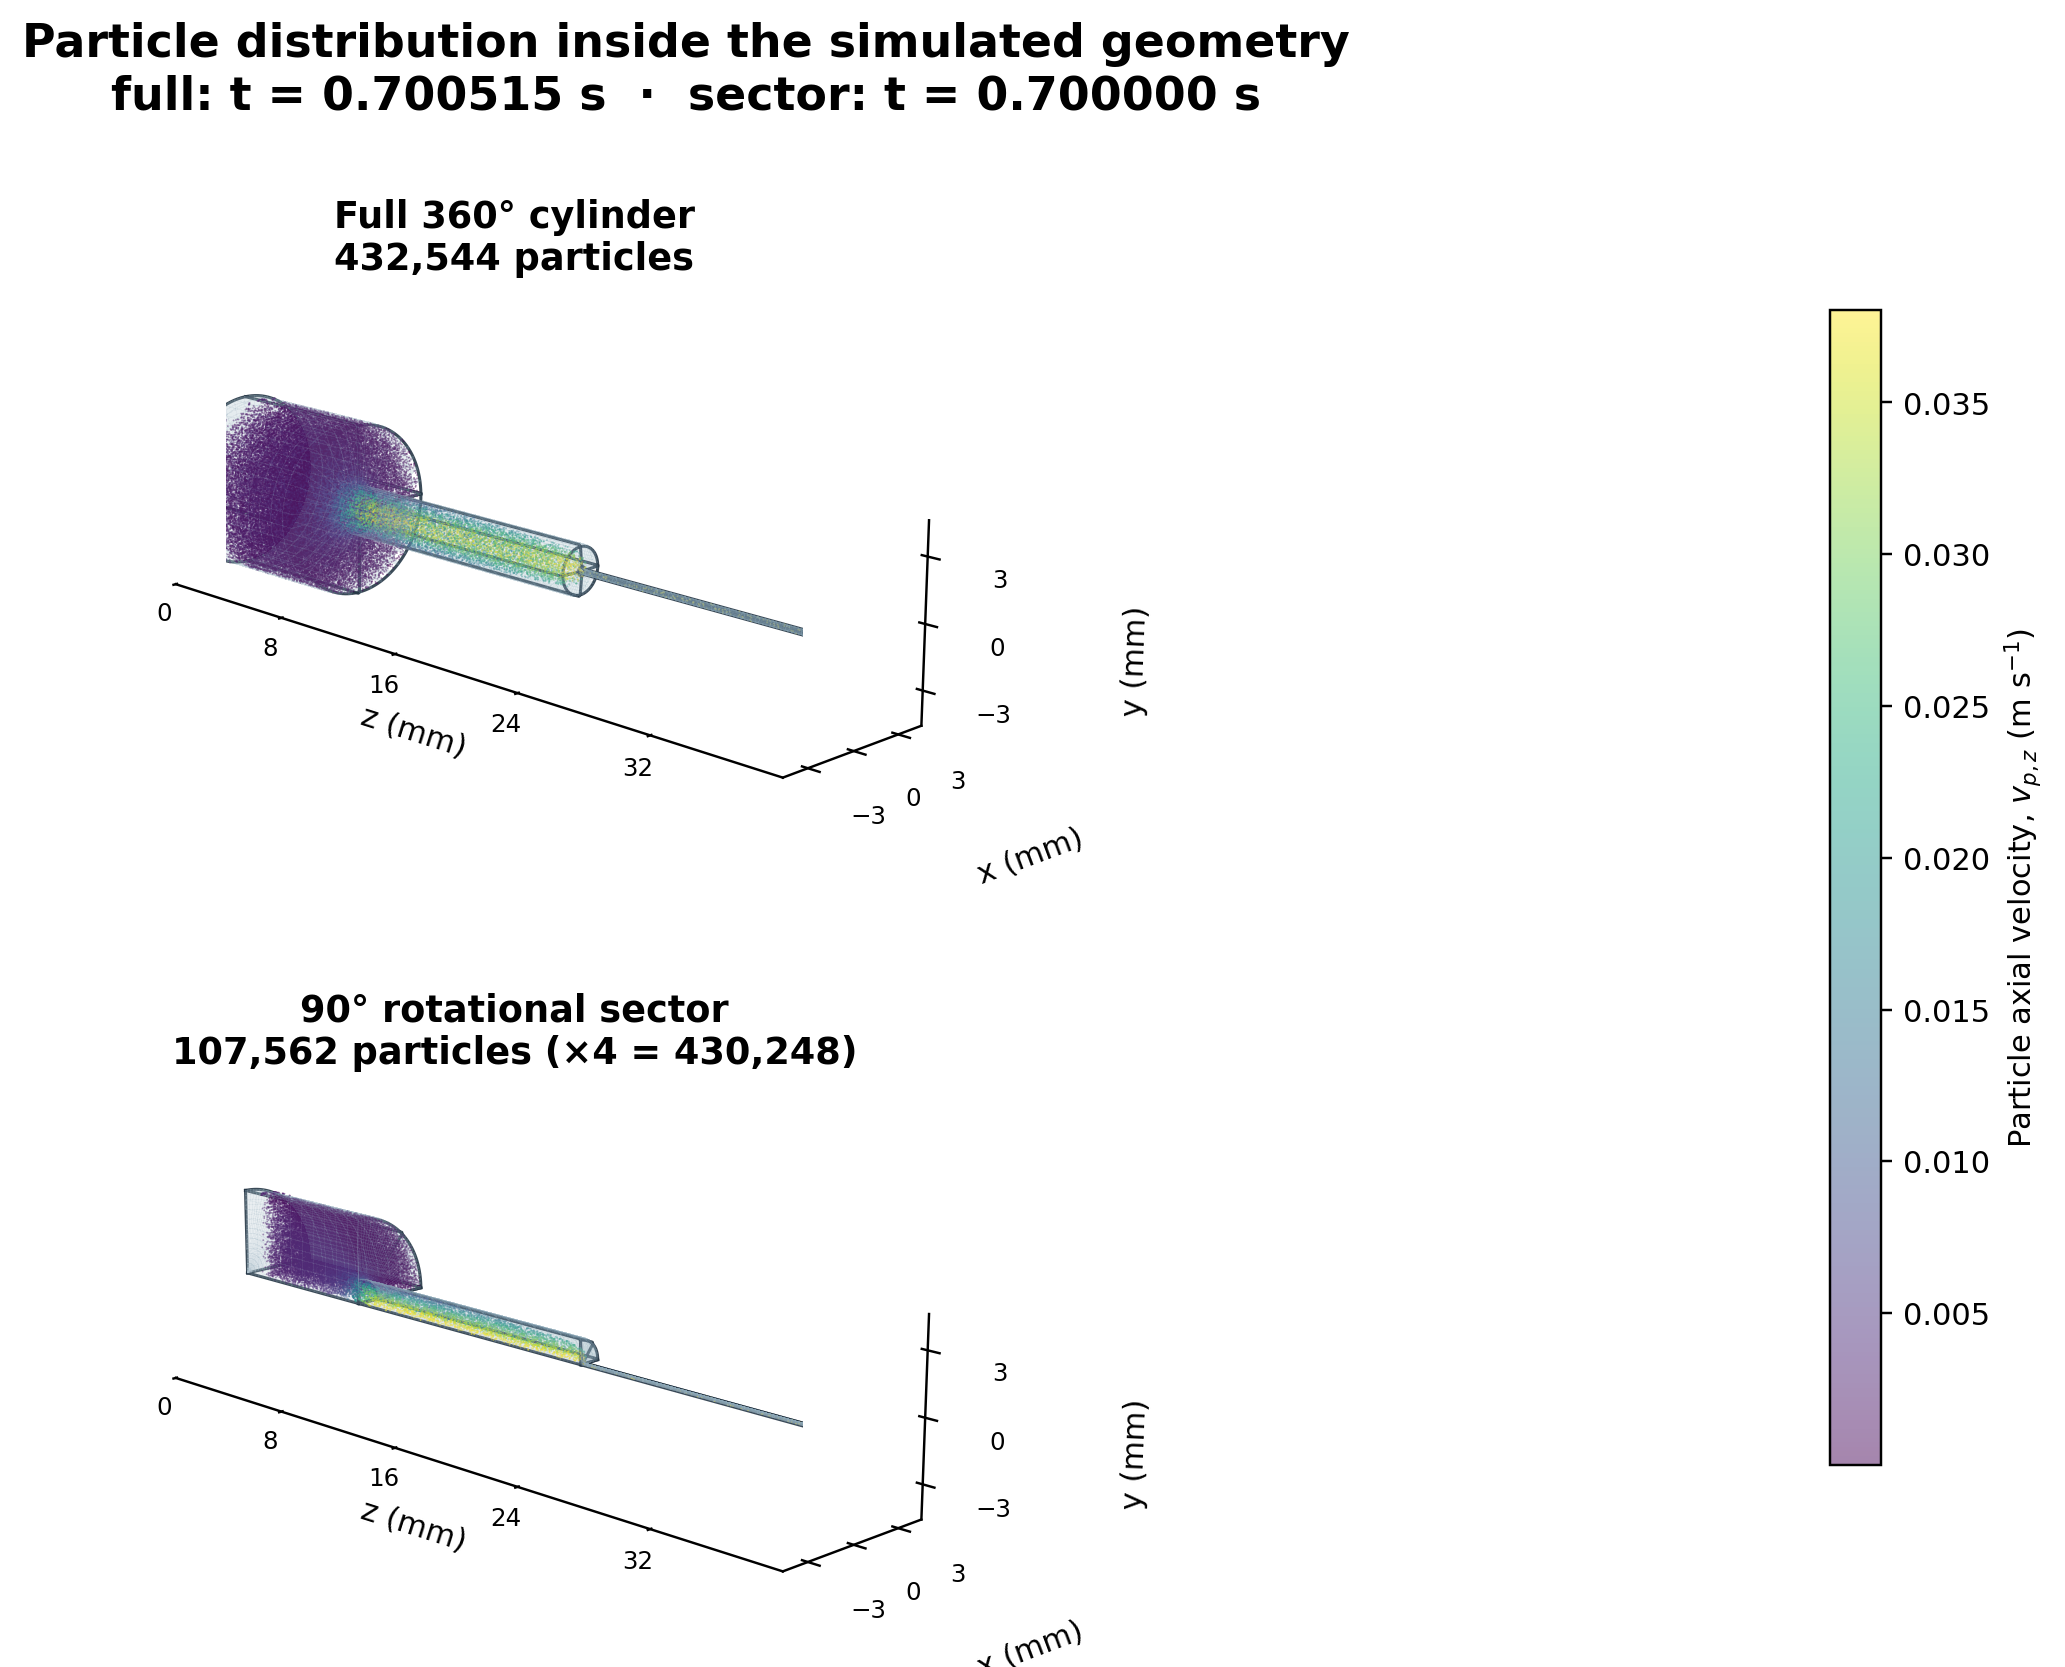
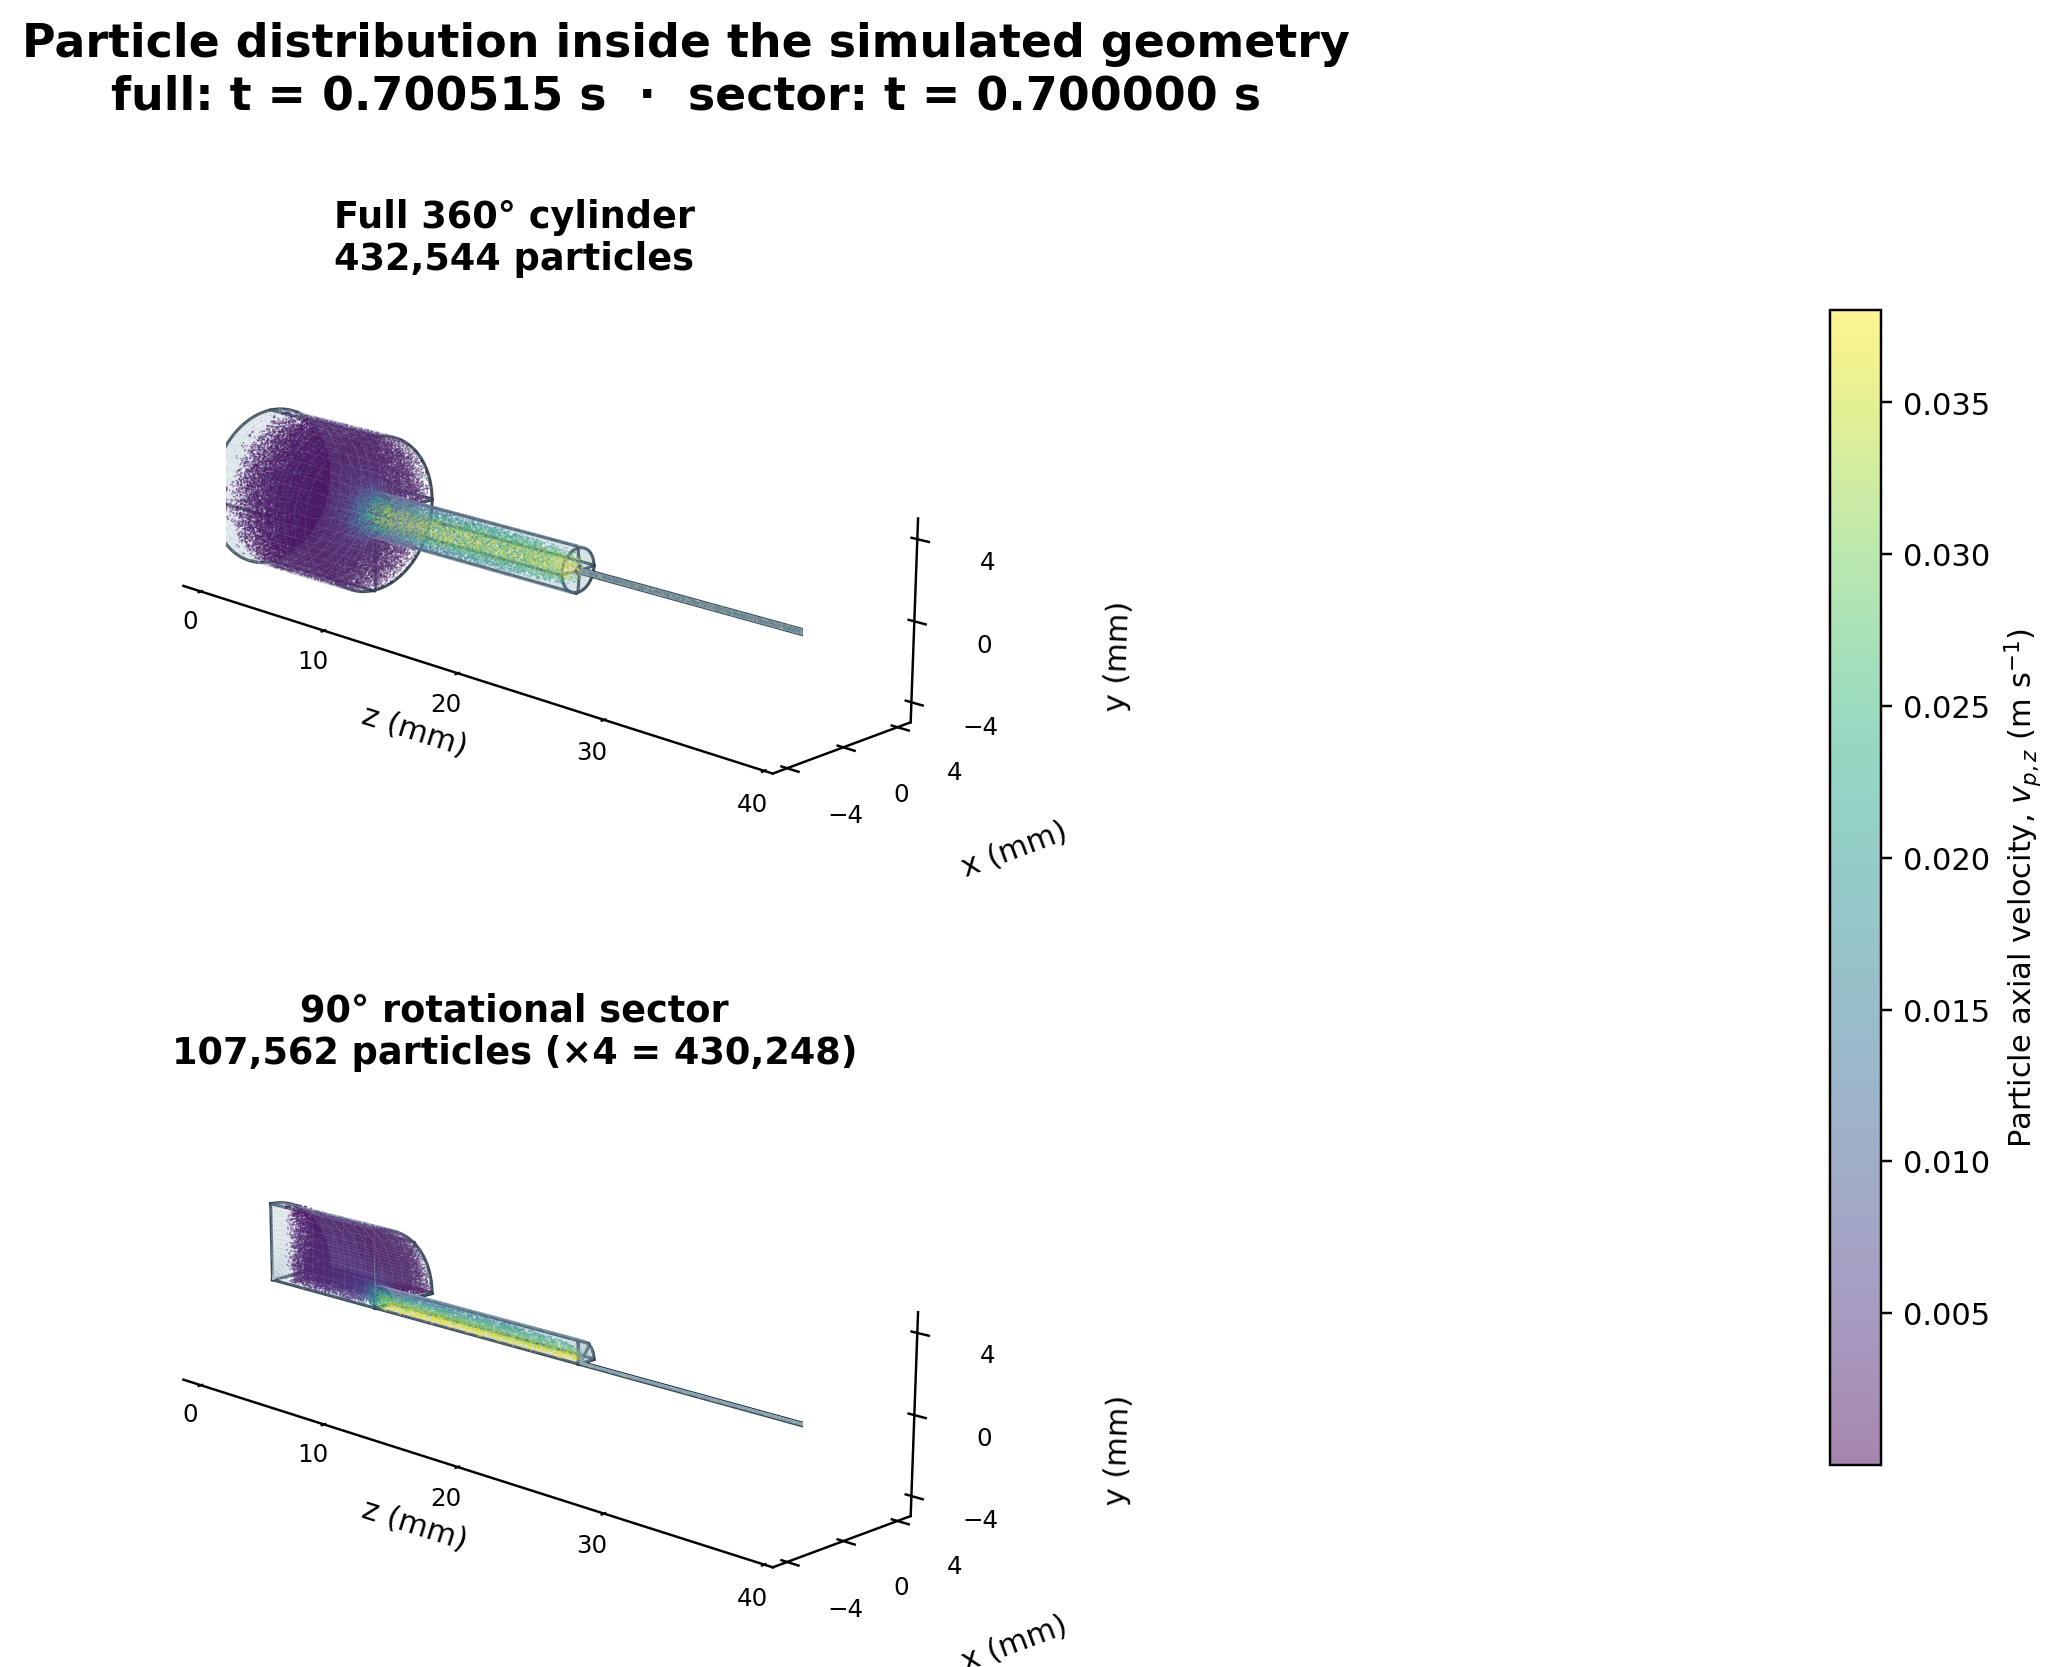
Prevent rear cylinder clipping in particle view

diff --git a/scripts/render_snapshot_comparison.py b/scripts/render_snapshot_comparison.py
@@ -441,10 +441,14 @@ def plot_particles(
         axis.set_xlabel("z (mm)")
         axis.set_ylabel("x (mm)", labelpad=2)
         axis.set_zlabel("y (mm)", labelpad=2)
-        axis.set_xlim(0.0, 39.4)
-        axis.set_ylim(-4.6, 4.6)
-        axis.set_zlim(-4.6, 4.6)
-        axis.set_box_aspect((4.3, 1.0, 1.0), zoom=1.52)
+        # Leave projection-space padding around the physical geometry. Without
+        # it, the rear half of the full-cylinder inlet cap is clipped by the
+        # 3D axes box at oblique camera angles.
+        axis.set_xlim(-1.5, 40.5)
+        axis.set_ylim(-5.0, 5.0)
+        axis.set_zlim(-5.0, 5.0)
+        axis.set_xticks((0.0, 8.0, 16.0, 24.0, 32.0, 40.0))
+        axis.set_box_aspect((4.2, 1.0, 1.0), zoom=1.48)
         axis.view_init(elev=16, azim=-45)
         axis.xaxis.set_major_locator(mpl.ticker.MaxNLocator(5))
         axis.yaxis.set_major_locator(mpl.ticker.MaxNLocator(3))
